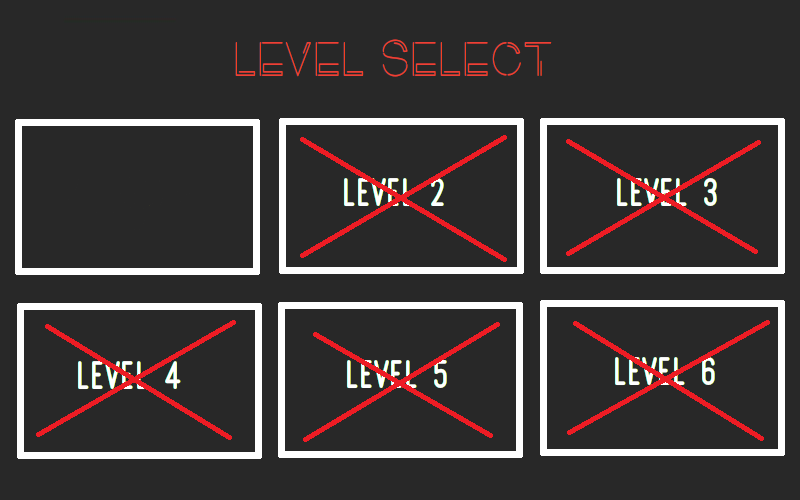
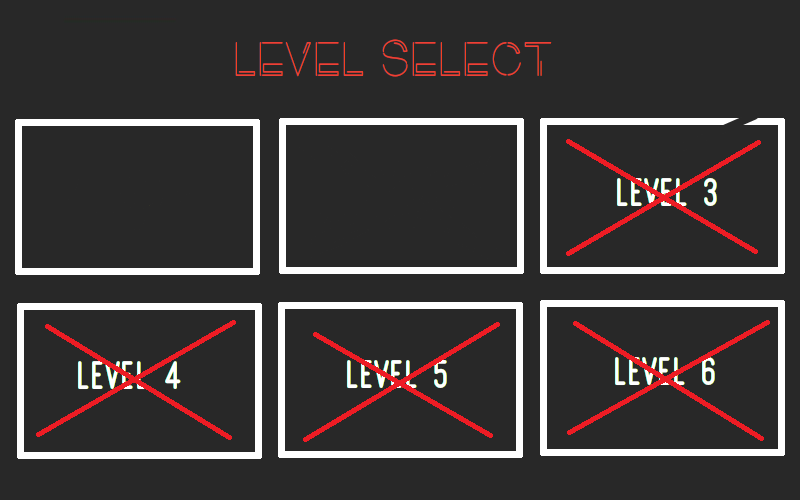
added level2 to level select

diff --git a/main/js/main.js b/main/js/main.js
@@ -188,6 +188,12 @@ var LevelSelect = new Phaser.Class({
             
         }).setOrigin().setInteractive().key = 1;
 
+        var level2 = this.add.text( 400,190, 'level 2', {
+            fontFamily: 'retrocycles',
+            fontSize: 40,
+            
+        }).setOrigin().setInteractive().key = 2;
+
 
         // back.on('pointerover', function () {
 
@@ -230,7 +236,10 @@ var LevelSelect = new Phaser.Class({
                 case 0: this.scene.start('mainmenu');
                 break;
 
-                case 1: this.scene.start('ingame');
+                case 1: this.scene.start('level1');
+                break;
+
+                case 2: this.scene.start('level2');
                 break;
 
             }
@@ -389,17 +398,17 @@ var Paused = new Phaser.Class({
 
         this.input.on('gameobjectdown', function (pointer, gameObject) {
 
-            
+            console.log(this);
             switch(gameObject.key)
             {
                 case 1: 
-                this.scene.stop('ingame');
-                this.scene.start('ingame');
+                this.scene.stop(this.game.currentLevel);
+                this.scene.start(this.game.currentLevel);
                 music.stop();
                 break;
 
                 case 2: 
-                this.scene.stop('ingame');
+                this.scene.stop(this.game.currentLevel);
                 this.scene.start('levelselect');
                 music.stop();
                 break;
@@ -412,7 +421,7 @@ var Paused = new Phaser.Class({
                 // this.scene.get('ingame').controls.up.isDown = false;
                 // this.scene.get('ingame').controls.down.isDown = false;
                 music.resume();
-                this.scene.resume('ingame');
+                this.scene.resume(this.game.currentLevel);
                 break;
 
             }
@@ -432,7 +441,7 @@ var config = {
     autoCenter: true,
     //looks like
     //it initializes all the sceneobjects, only calls create and whatnot if active is true (true by default for first sceneobject)
-    scene: [ Preloader, Splash, MainMenu, LevelSelect, Controls, Help, level1, Paused],
+    scene: [ Preloader, Splash, MainMenu, LevelSelect, Controls, Help, level1, level2, Paused],
     //physics options
     physics: {
         default: "arcade",

diff --git a/main/js/levels/level2.js b/main/js/levels/level2.js
@@ -1,15 +1,15 @@
 this.levels = this.levels || {};
 
-var level1 = new Phaser.Class({
+var level2 = new Phaser.Class({
 
     Extends: Phaser.Scene,
 
     initialize:
 
-    function level1 ()
+    function level2 ()
     {
-        this.key = "level1";
-        Phaser.Scene.call(this, { key: 'level1' });
+        this.key = "level2";
+        Phaser.Scene.call(this, { key: 'level2' });
     },
 
 
@@ -164,8 +164,6 @@ var level1 = new Phaser.Class({
             //launch paused screen
             this.game.currentLevel = this.key;
             this.scene.launch('paused');
-    
-            
 
     
         }.bind(this));
@@ -213,4 +211,4 @@ var level1 = new Phaser.Class({
 
 });
 
-this.levels.level1 = level1;
+this.levels.level2 = level2;

diff --git a/main/index.html b/main/index.html
@@ -17,6 +17,7 @@
     <div style="font-family:retrocycles; position:absolute; left:-1000px; visibility:hidden;">.</div>
     <script src="//cdn.jsdelivr.net/npm/phaser@3.16.2/dist/phaser.js"></script>
     <script src = "./js/levels/level1.js"> </script>
+    <script src = "./js/levels/level2.js"> </script>
     <script src = "./js/main.js" > </script>
 </body>
 </html>
